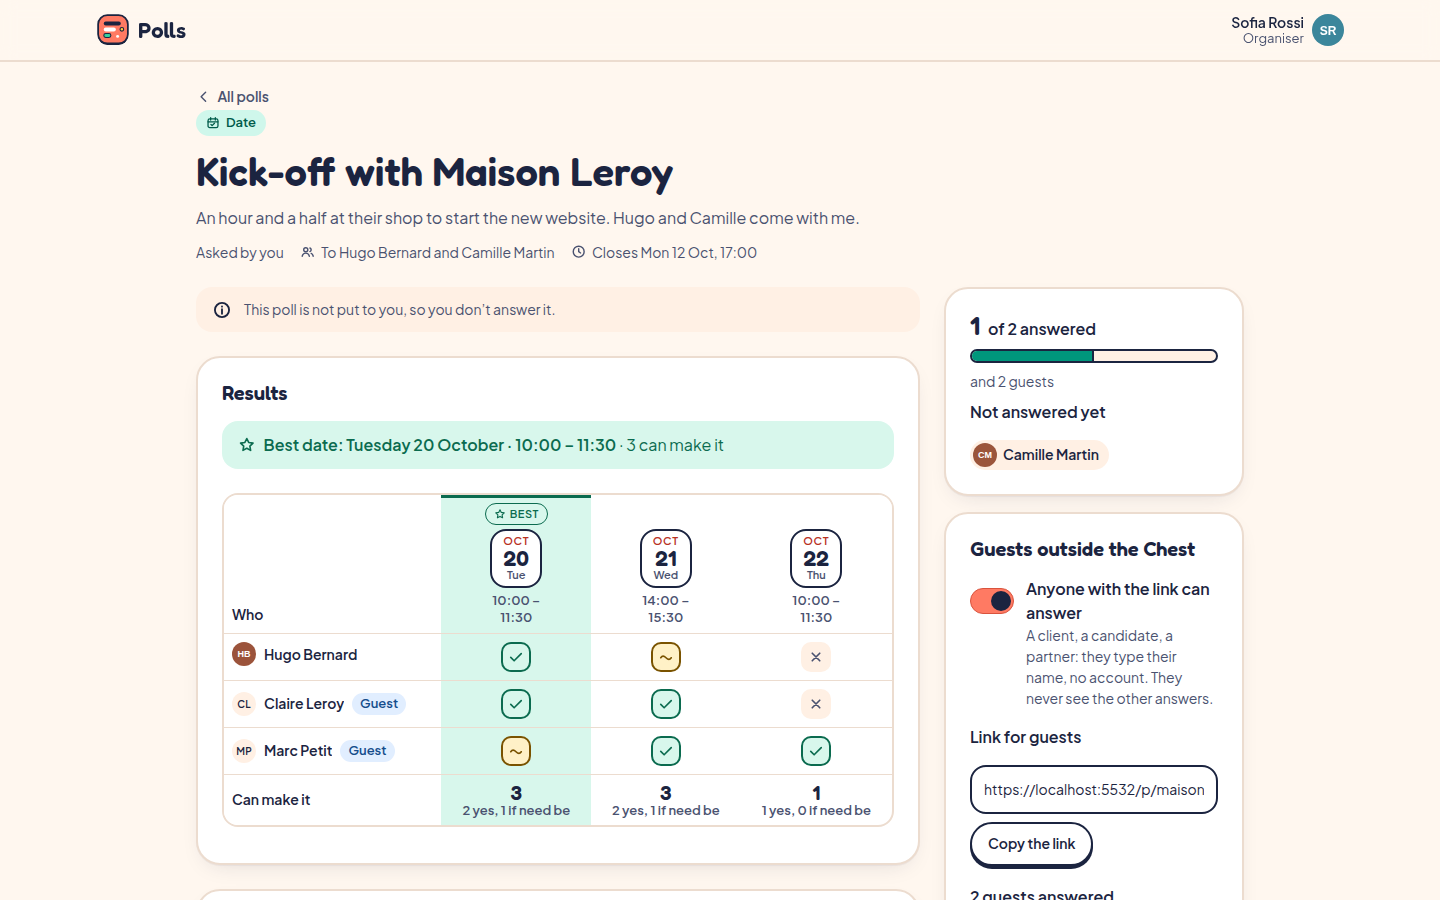
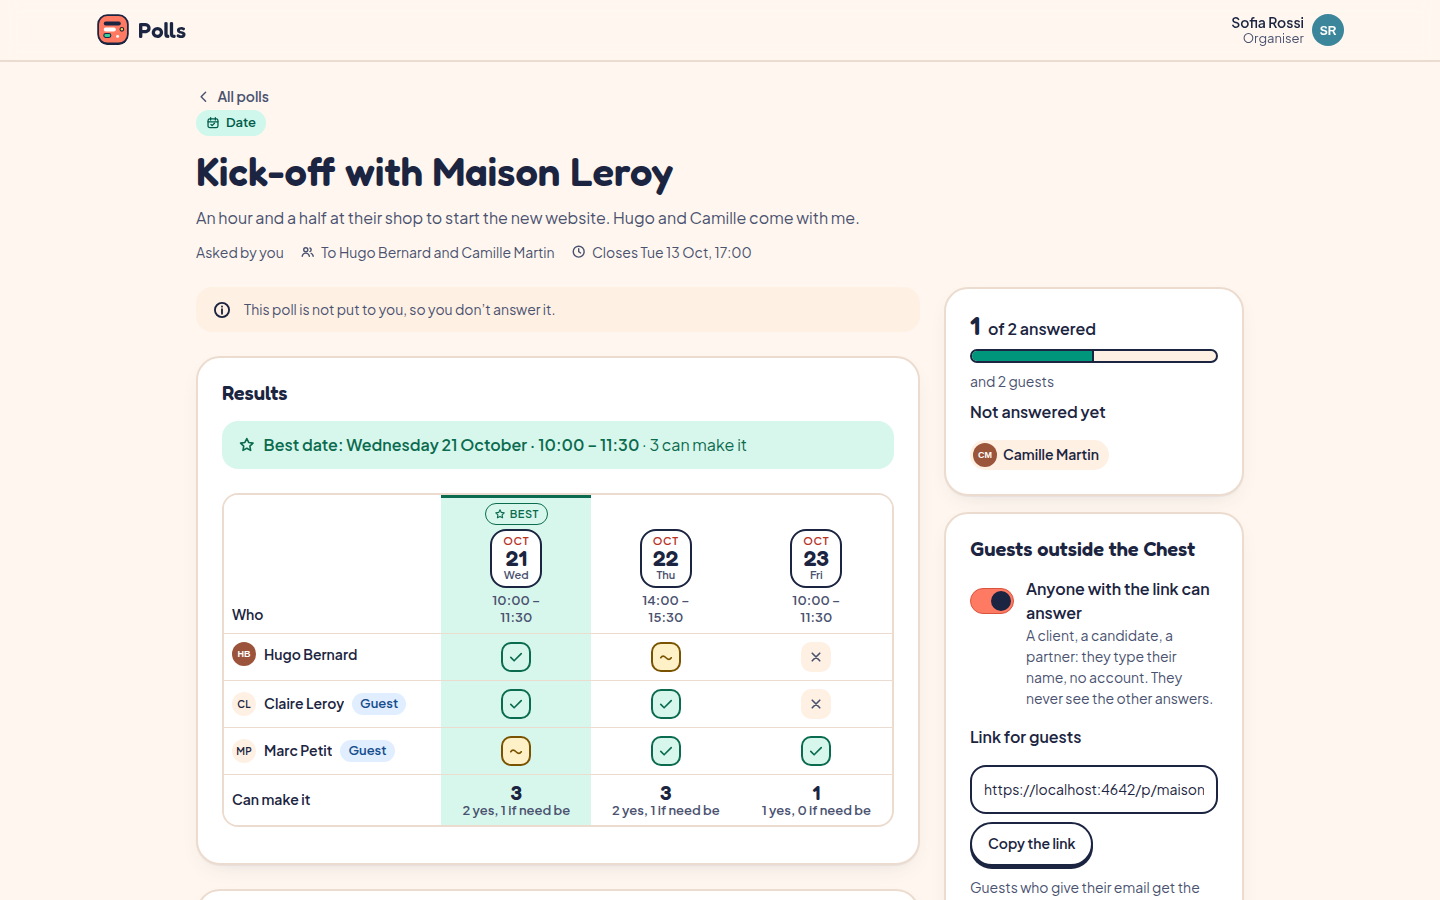
Review of the mail migration: Wiki, News, Polls
Wiki
- "Remind those who have not confirmed" works at most once every 12 hours
  per page (claimed in one statement): the emails used to be limited to one
  a day per person, and a notification the Chest may email must not repeat
  at each click. Test (PGlite, PostgreSQL) and flow step.
- README: no stale "once a day at most per person", no chest.today() key,
  the members.groups name.

News
- The one-tap links of emails already sent (/chest/posts/<id>/answer)
  answer nothing and open the post (303) instead of "Nothing here".
- The weekly digest item an earlier version left in a bell is withdrawn
  at the first pass (the digests table says there is one), then the rows go.
- AGENTS.md says when the tables no code reads may be dropped (the release
  after this one: a rollback runs no migration); stale comments on the
  digest and email removed.

Polls
- The organiser's guests card says how guests learn the chosen date: by
  email, or, when the Chest cannot send, "send them the link again"; the
  guest's thanks says to open the link again. Test and screenshots.
- A stale comment on the nudge.

Claude-Session: https://claude.ai/code/session_01JLMdsrCCxLjBpzyUbVXNzX

diff --git a/tools/public-and-private/polls/src/pages/Poll.tsx b/tools/public-and-private/polls/src/pages/Poll.tsx
@@ -6,7 +6,7 @@ import { Island } from "@argentic/chest-app";
 import { log } from "@argentic/chest-app";
 import { AppError, notFound, redirect } from "@argentic/chest-app";
 import { fill as format, listOf, type Catalogue, type Format, type Locale } from "../i18n/index.ts";
-import { calendarPage, inCalendar, learned, notInCalendar } from "../lib/agenda.ts";
+import { calendarPage, guestMailOffered, inCalendar, learned, notInCalendar } from "../lib/agenda.ts";
 import { all, groups as chestGroups } from "../lib/audience.ts";
 import { canComment, list as listComments } from "../lib/comments.ts";
 import { dates, optionText } from "../lib/dates.ts";
@@ -86,6 +86,9 @@ export async function pollPage({ sql, member, locale, t, f, request }: { sql: Sq
   const link = guestsShown ? await guestLink(sql, poll.id) : null;
   const origin = link ? publicOrigin(request.headers) : null;
   const guestList = guestsShown ? await listGuests(sql, member, poll) : [];
+  // Whether guests hear the chosen date by email (the guests' form asks
+  // their address only then); a sign-up sheet has no date to choose.
+  const guestMail = guestsShown && link !== null && poll.slots === null ? ((await guestMailOffered()) ? "on" : "off") : null;
   // The chosen date in this member's Chest calendar (Proposal (studio)).
   // Replies to anonymous free texts, for those who manage a closed survey.
   const talks = poll.anonymous && pv.state === "shown" && pv.results?.some(q => q.kind === "text") ? await conversations(sql, member, poll) : null;
@@ -235,7 +238,7 @@ export async function pollPage({ sql, member, locale, t, f, request }: { sql: Sq
           </section>
 
           {guestsShown && (poll.status === "open" || link !== null || guestList.length > 0) && (
-            <Island name="GuestsCard" props={{ pollId: poll.id, url: link && origin ? `${origin}/p/${link}` : null, open: poll.status === "open", list: guestList, locale, t: { guests: t.guests } }} />
+            <Island name="GuestsCard" props={{ pollId: poll.id, url: link && origin ? `${origin}/p/${link}` : null, open: poll.status === "open", list: guestList, mail: guestMail, locale, t: { guests: t.guests } }} />
           )}
 
           {pv.manages && (

diff --git a/tools/private/news/src/lib/tell.ts b/tools/private/news/src/lib/tell.ts
@@ -149,8 +149,27 @@ export async function announce(sql: Sql, now = new Date()): Promise<{ told: stri
 // and purge what was deleted long ago.
 export async function pass(sql: Sql, now = new Date()): Promise<{ told: string[]; waiting: string[] }> {
   const result = await announce(sql, now);
+  await clearDigests(sql);
   await removeObjects(await purge(sql));
   return result;
+}
+
+// clearDigests: the weekly digest's item (key "digest") that versions
+// before the mail decisions of 6 October 2026 left in a bell went when its
+// reader opened the front page; there is no digest any more, so the items
+// still standing (the digests table says whose) are withdrawn once, in one
+// call, and the rows go. Kept while that table exists: then nothing to do.
+export const oldDigestKey = "digest";
+export async function clearDigests(sql: Sql): Promise<void> {
+  const [held] = await sql<{ member: string }[]>`select member from digests limit 1`;
+  if (!held) return;
+  try {
+    await notifications.withdraw(oldDigestKey);
+  } catch (error) {
+    if (error instanceof ChestError) return;
+    throw error;
+  }
+  await sql`delete from digests`;
 }
 
 // A new comment: the post's author hears of it (not of their own); a reply,
@@ -297,6 +316,7 @@ export async function catchUp(sql: Sql, now = new Date()): Promise<void> {
   await announce(sql, now);
   if (now.getTime() - lastPurge > 10 * 60 * 1000) {
     lastPurge = now.getTime();
+    await clearDigests(sql);
     await removeObjects(await purge(sql));
   }
 }

diff --git a/tools/public-and-private/polls/src/i18n/fr.ts b/tools/public-and-private/polls/src/i18n/fr.ts
@@ -24,6 +24,7 @@ export const fr: Catalogue = {
     noneSuits: "Aucune des dates ne vous convient.",
     willMail: "Vous recevrez la date retenue à {email}. Vous pouvez modifier votre réponse depuis ce navigateur jusqu’à la clôture.",
     changeHint: "Vous pouvez modifier votre réponse depuis ce navigateur jusqu’à la clôture.",
+    comeBack: "Rouvrez ce lien pour voir la date retenue.",
     closed: "Ce sondage est clos. L’organisateur choisit la date.",
     yourAnswerKept: "Merci, {name} : votre réponse a été prise en compte.",
     privacy: "L’organisateur et les personnes interrogées dans l’entreprise voient votre nom et votre réponse. Vous ne voyez que la vôtre.",
@@ -365,6 +366,8 @@ export const fr: Catalogue = {
     link: "Lien pour les invités",
     copy: "Copier le lien",
     copied: "Lien copié.",
+    mailOn: "Les invités qui donnent leur e-mail reçoivent par e-mail la date que vous choisissez.",
+    mailOff: "Les invités ne reçoivent pas d’e-mail : votre Chest ne peut pas en envoyer pour l’instant. Une fois la date choisie, renvoyez-leur le lien : la page l’affiche.",
     on: "Les invités peuvent répondre avec le lien.",
     off: "Le lien ne fonctionne plus.",
     count: { one: "{count} invité a répondu", other: "{count} invités ont répondu" },

diff --git a/tools/public-and-private/polls/src/islands/GuestsCard.tsx b/tools/public-and-private/polls/src/islands/GuestsCard.tsx
@@ -11,11 +11,15 @@ import { fill as format, plural, type Plural } from "./words.ts";
 // for good: there is nothing to undo it with).
 type Words = { guests: Catalogue["guests"] };
 
-export function GuestsCard({ pollId, url, open, list, locale, t }: {
+export function GuestsCard({ pollId, url, open, list, mail, locale, t }: {
   pollId: string;
   url: string | null;
   open: boolean;
   list: { id: string; name: string; email: string | null }[];
+  // How guests learn the date chosen: by email ("on"), or only on the
+  // link's page — the Chest cannot send email now ("off"); null: nothing to
+  // say (a sign-up sheet, the link off).
+  mail: "on" | "off" | null;
   locale: string;
   t: Words;
 }) {
@@ -58,6 +62,7 @@ export function GuestsCard({ pollId, url, open, list, locale, t }: {
           <label className="label" htmlFor="guest-url">{t.guests.link}</label>
           <input id="guest-url" className="field" readOnly value={link} onFocus={e => e.currentTarget.select()} />
           <div className="row"><button type="button" className="button small" onClick={() => void copy()}>{t.guests.copy}</button></div>
+          {mail && <p className="hint">{mail === "on" ? t.guests.mailOn : t.guests.mailOff}</p>}
         </div>
       )}
       {list.length > 0 && (

diff --git a/tools/private/wiki/test/round2.test.ts b/tools/private/wiki/test/round2.test.ts
@@ -138,6 +138,14 @@ test("asked to confirm: a notification in each one's language, never an email; r
   assert.equal(await tell.remindReaders(sql, page, ask), 3);
   assert.deepEqual(asked().map(n => n.member).sort(), [ines.id, lea.id, tom.id].sort());
   assert.match(shownTo(asked().find(n => n.member === tom.id)!, "en").title, /^Reminder: please read/u);
+  // An editor's reminder: once every 12 hours per page (each one may be
+  // an email from the Chest); two clicks never both pass.
+  await sql`update pages set read_reminded_at = null where id = ${p.id}`;
+  const clicks = await Promise.allSettled([reads.claimReminder(sql, p.id), reads.claimReminder(sql, p.id)]);
+  assert.deepEqual(clicks.map(c => c.status).sort(), ["fulfilled", "rejected"]);
+  await assert.rejects(reads.claimReminder(sql, p.id), (e: { code?: string }) => e.code === "reminded");
+  await sql`update pages set read_reminded_at = now() - interval '13 hours' where id = ${p.id}`;
+  await reads.claimReminder(sql, p.id);
   // The morning schedule reminds a week after the ask, twice at most.
   chest.notifications.splice(0);
   await sql`update pages set read_asked_at = now() - interval '8 days', read_reminded_at = null, read_reminders = 0 where id = ${p.id}`;

diff --git a/tools/public-and-private/polls/src/i18n/en.ts b/tools/public-and-private/polls/src/i18n/en.ts
@@ -26,6 +26,7 @@ export const en = {
     noneSuits: "None of the dates suits you.",
     willMail: "You will get the date chosen at {email}. You can change your answer from this browser until the poll closes.",
     changeHint: "You can change your answer from this browser until the poll closes.",
+    comeBack: "Open this link again to see the date chosen.",
     closed: "This poll is closed. The organiser is choosing the date.",
     yourAnswerKept: "Thanks, {name}: your answer was counted.",
     privacy: "The organiser and the people asked in the company see your name and your answer. You see only your own.",
@@ -368,6 +369,8 @@ export const en = {
     copy: "Copy the link",
     copied: "Link copied.",
     on: "Guests can answer with the link.",
+    mailOn: "Guests who give their email get the date you pick by email.",
+    mailOff: "Guests are not emailed: your Chest cannot send email for now. Once you pick the date, send them the link again: the page shows it.",
     off: "The link no longer works.",
     count: { one: "{count} guest answered", other: "{count} guests answered" },
     andGuests: { one: "and {count} guest", other: "and {count} guests" },

diff --git a/tools/private/wiki/src/lib/reads.ts b/tools/private/wiki/src/lib/reads.ts
@@ -49,6 +49,19 @@ export async function ask(sql: Sql, actor: Member | null, pageId: unknown, input
   return p;
 }
 
+// claimReminder: an editor's "Remind those who have not confirmed", at most
+// once every 12 hours per page. Each reminder is a notification the Chest
+// may email at once (the member's choice): a few clicks must not become a
+// few emails. Claimed in one statement, so two clicks never both pass.
+export const remindHours = 12;
+export async function claimReminder(sql: Sql, pageId: string): Promise<void> {
+  const [claimed] = await sql`
+    update pages set read_reminded_at = now() where id = ${pageId}
+      and (read_reminded_at is null or read_reminded_at <= now() - make_interval(hours => ${remindHours}))
+    returning id`;
+  if (!claimed) throw new AppError("reminded", { hours: remindHours });
+}
+
 // stopAsking: nobody is asked any more; confirmations already given stay.
 export async function stopAsking(sql: Sql, actor: Member | null, pageId: unknown): Promise<void> {
   const p = await page(sql, actor, pageId, "write");

diff --git a/tools/private/news/test/tell.test.ts b/tools/private/news/test/tell.test.ts
@@ -122,3 +122,19 @@ test("beyond the Chest's 1,000 recipients an hour, the telling stops and goes on
     await chest.close();
   }
 });
+
+test("the weekly digest item an earlier version left in a bell is withdrawn at the next pass, once", async () => {
+  await open();
+  try {
+    const notifications = await import("@argentic/chest-sdk/notifications");
+    await notifications.notify([hugo.id, ines.id], { title: "3 posts this week", path: "/chest", key: tell.oldDigestKey });
+    await database.sql`insert into digests (member, sent_at) values (${hugo.id}, now()), (${ines.id}, now())`;
+    await tell.pass(database.sql);
+    assert.equal(chest.notifications.filter(n => n.key === tell.oldDigestKey).length, 0);
+    assert.equal((await database.sql`select 1 from digests`).length, 0);
+    // Nothing left: nothing asked of the Chest again.
+    await tell.clearDigests(database.sql);
+  } finally {
+    await chest.close();
+  }
+});

diff --git a/tools/public-and-private/polls/src/islands/GuestForm.tsx b/tools/public-and-private/polls/src/islands/GuestForm.tsx
@@ -48,7 +48,7 @@ export function GuestForm({ link, pollId, options, signup, mailOn, mine, sent, l
         {said.length > 0 ? (
           <div className="said" aria-label={t.poll.youSaid}>{said.map((s, i) => <span key={i} className="chip">{s}</span>)}</div>
         ) : <p>{t.guest.noneSuits}</p>}
-        <p>{mine.email && mailOn ? format(t.guest.willMail, { email: mine.email }) : t.guest.changeHint}</p>
+        <p>{mine.email && mailOn ? format(t.guest.willMail, { email: mine.email }) : signup ? t.guest.changeHint : `${t.guest.comeBack} ${t.guest.changeHint}`}</p>
         <button type="button" className="button small" onClick={() => setEditing(true)}>{t.poll.change}</button>
       </div>
     );

diff --git a/tools/private/wiki/src/actions.ts b/tools/private/wiki/src/actions.ts
@@ -285,11 +285,13 @@ export const actions = {
     return { asked: state.asked ? await tell.readAsked(member, p, state.asked) : 0 };
   }),
 
-  // "Remind those who have not confirmed": the notification again.
+  // "Remind those who have not confirmed": the notification again, at most
+  // once every 12 hours (reads.claimReminder).
   remindRead: action(page, async ({ pageId }, { member }) => {
     const p = await pages.page(db(), member, pageId, "write");
     const state = await reads.readState(db(), member, p.id);
     if (!state.asked) fail("invalid");
+    await reads.claimReminder(db(), p.id);
     return { reminded: await tell.remindReaders(db(), p, state.asked!) };
   }),
 

diff --git a/tools/private/wiki/src/i18n/fr.ts b/tools/private/wiki/src/i18n/fr.ts
@@ -576,6 +576,7 @@ export const fr: Catalogue = {
     file_too_large: "Ce fichier est trop lourd.",
     import_invalid: "Ce fichier n’a pas pu être lu. Utilisez un zip exporté de Confluence, de Notion ou de Google Docs, ou des fichiers .docx, .md ou .html.",
     import_empty: "Aucune page n’a été trouvée dans ces fichiers.",
+    reminded: "Une relance est partie il y a moins de {hours} heures. Réessayez plus tard.",
     unavailable: "Le Chest n’a pas répondu. Réessayez dans un instant.",
     unknown: "Quelque chose s’est mal passé. Réessayez.",
     synonyms_few: "Écrivez au moins deux mots ou expressions, séparés par des virgules.",

diff --git a/tools/private/news/src/lib/access.ts b/tools/private/news/src/lib/access.ts
@@ -38,8 +38,8 @@ export function can(actor: Member | null, ability: Ability): boolean {
 
 // Audience (lib/model.ts, inAudience): a post is for everyone, or for the
 // members of some of the Chest's groups and some people picked by hand. Its
-// audience — and only its audience — is told in the bell and by email,
-// asked to confirm, counted in "Read by", and in the digest.
+// audience — and only its audience — is told (a notification), asked to
+// confirm, and counted in "Read by".
 export { inAudience, type Audience, type Grouped } from "../shared/model.ts";
 
 // Who sees a post kept to an audience: its audience, its author (who may edit
